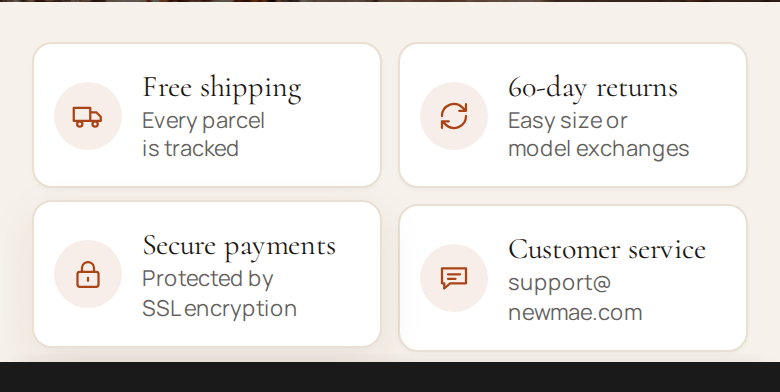
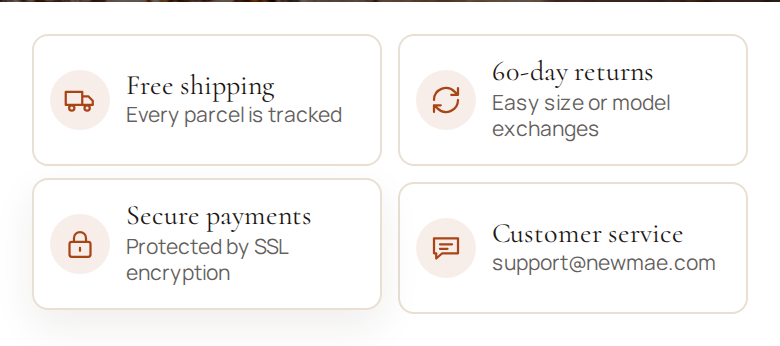
NewMae Speed & Premium: compact trust cards without background band
Claude-Session: https://claude.ai/code/session_018o1F5pquvMjEbPFw2Wz8La

diff --git a/newmae/README.md b/newmae/README.md
@@ -106,7 +106,7 @@
   on phones (assets/header-menu.js); mobile hero max 960px.
 - Measured (mobile, DPR 3, one run): product images 2060 → 1287 KB, home 1357 → 1110 KB, collection 1213 → 998 KB,
   HTML 40–75 KB smaller per page. Biggest remaining cost: Google tags loaded 4× (~680 KB JS), left to the owner.
-- Look: text colour #1C1714 (warm black), announcement bar #1C1714, trust section as white cards on cream #F6F1EA (rust icon circle, serif titles; mobile compact 2 x 2, icon left), soft fade-in on scroll,
+- Look: text colour #1C1714 (warm black), announcement bar #1C1714, trust section as compact white cards with a warm border, no band behind (rust icon circle left, serif titles; 4 in a row on desktop, 2 x 2 on mobile), soft fade-in on scroll,
   slow zoom on product cards (desktop), square swatches on cards. Mobile hero cropped at 112% of the width (setting "Photo height mobile"), focal point bottom, so the models sit higher.
 - Copied as is from the live theme (owner's decision): pp-rating "Rated by 2,000+ happy customers" and the
   customer photo section with invented names. FTC / Google Merchant Center risk; switch off before ads.
